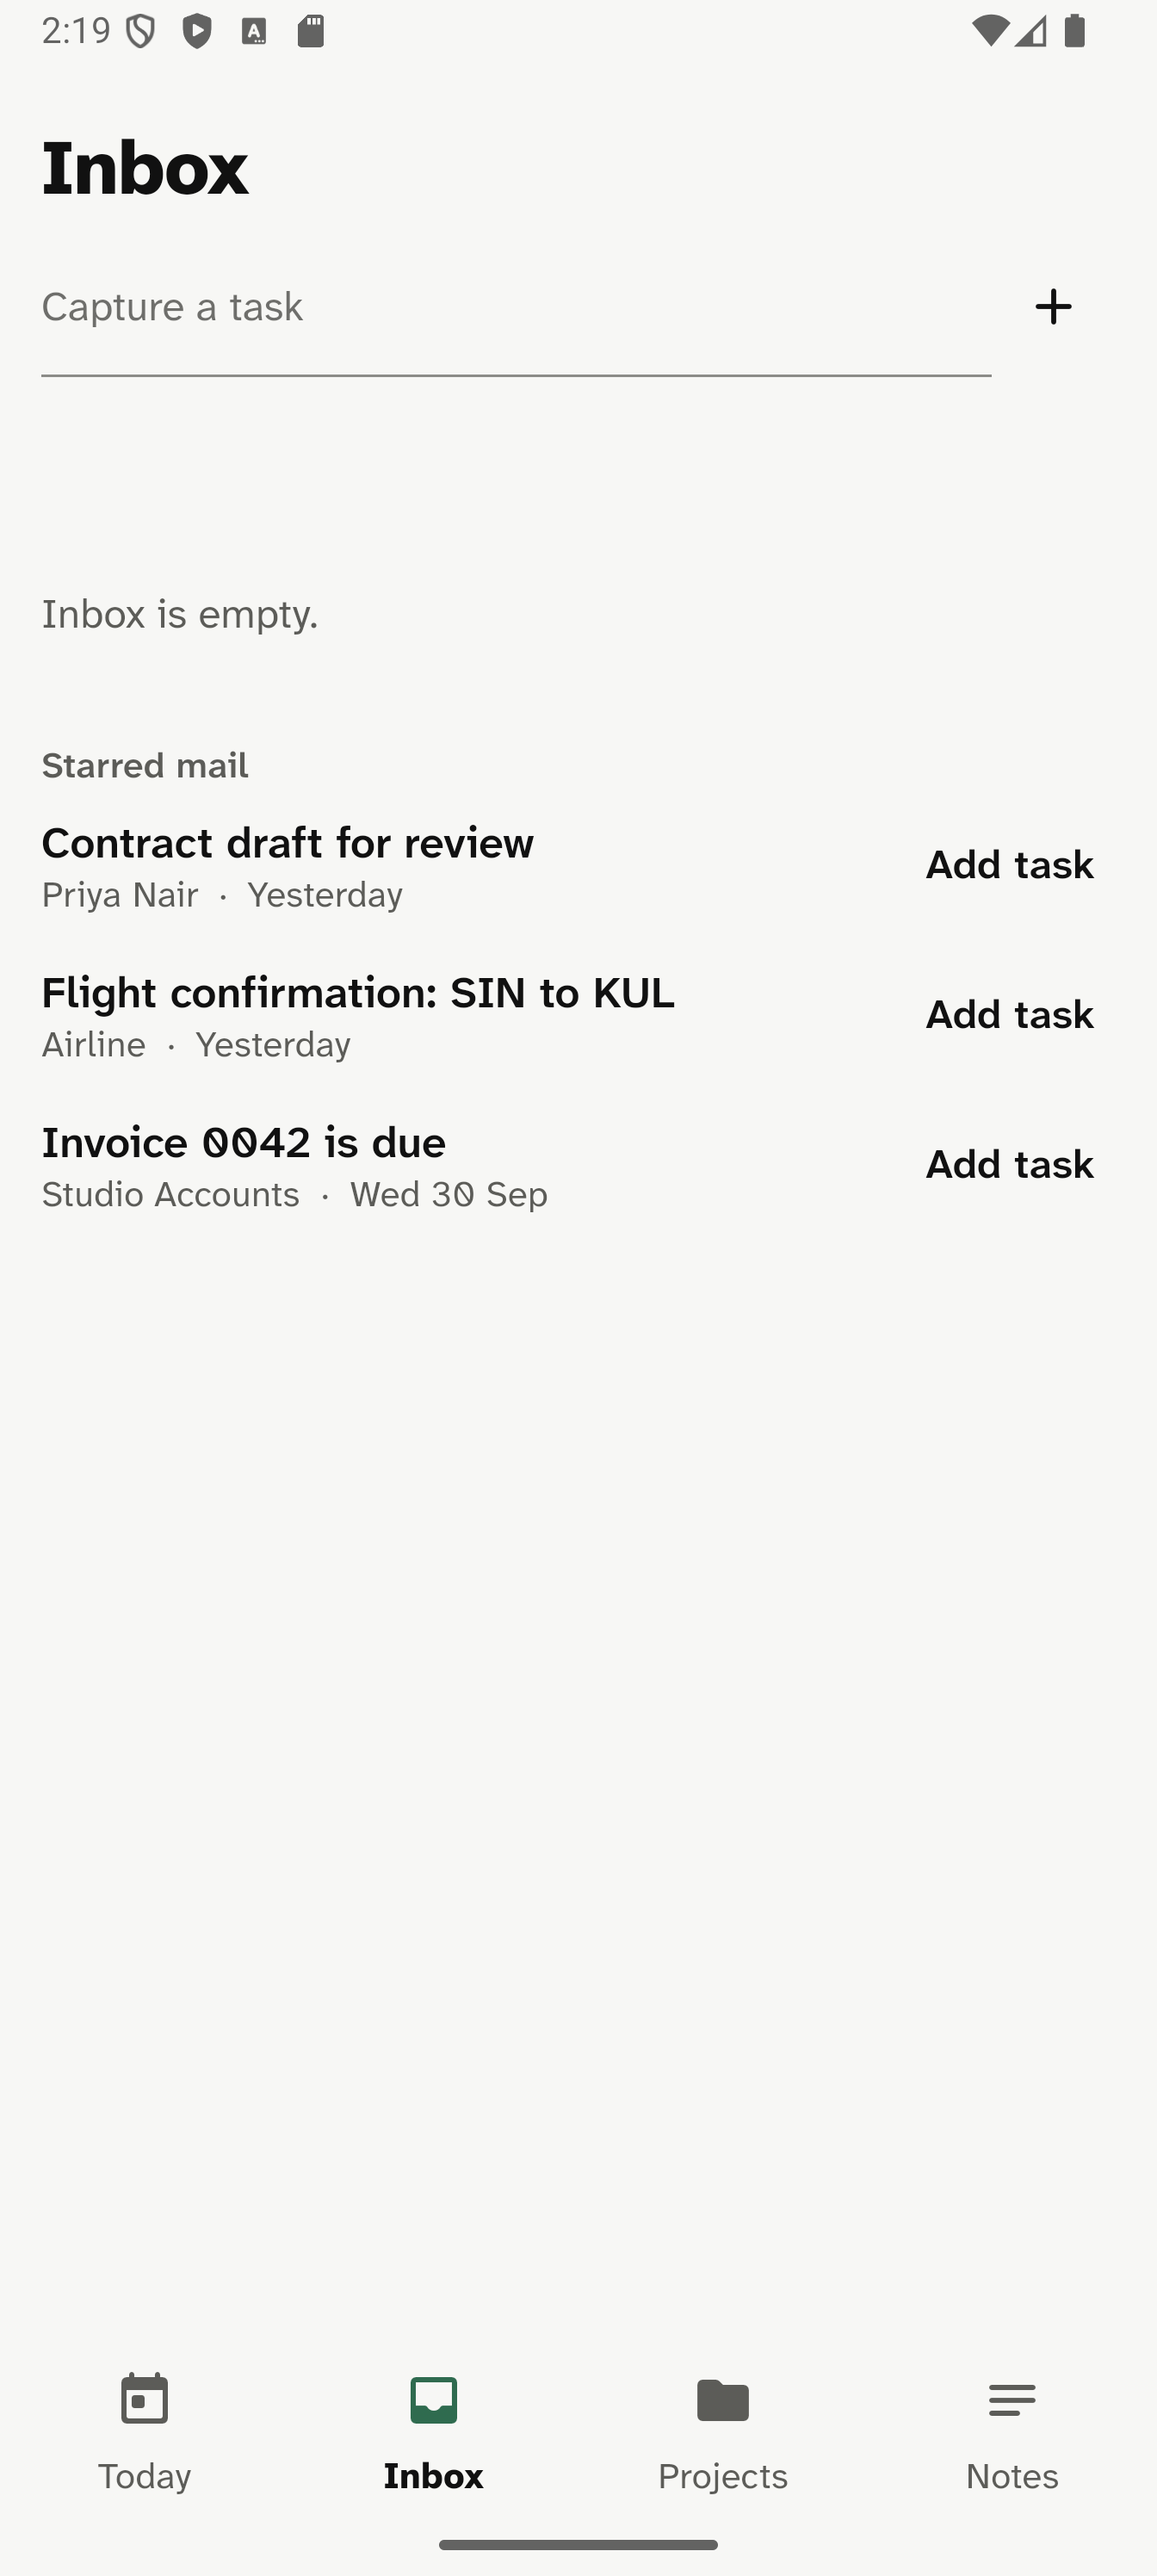
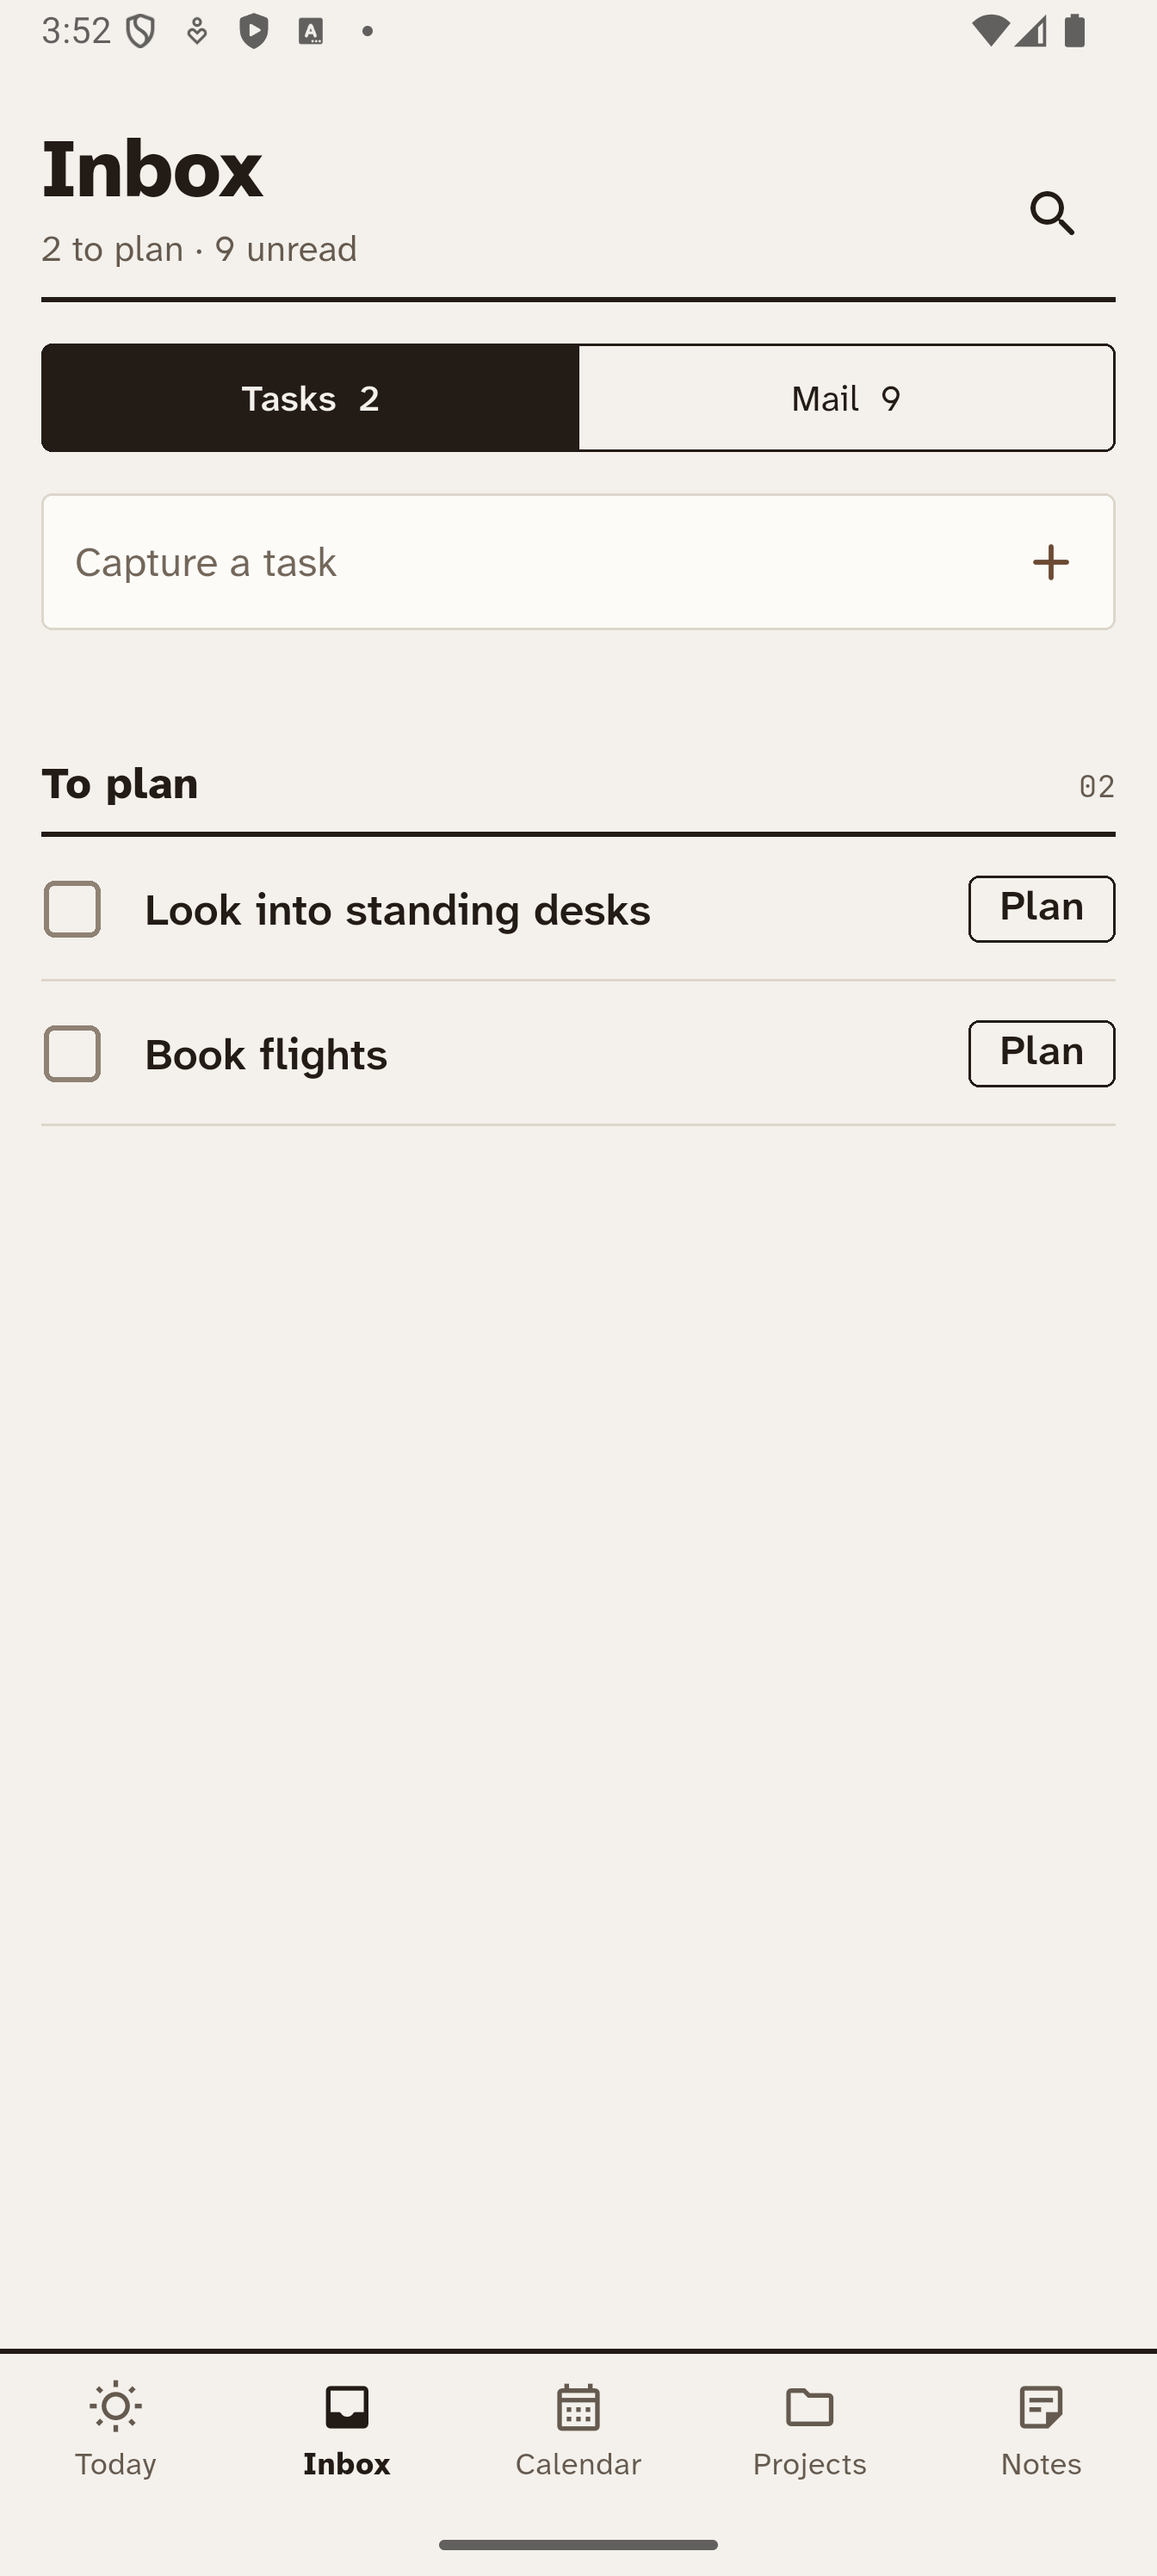
feat: refresh Cairn screenshots, add Mail and Calendar

diff --git a/src/content/work/cairn.md b/src/content/work/cairn.md
@@ -13,10 +13,16 @@ mark: "cards"
 shots:
   - src: "../../assets/work/cairn/today.png"
     label: "Today"
-    alt: "Cairn Today screen: schedule from the calendar and starred mail"
+    alt: "Cairn Today screen: overdue banner, all-day events and a timeline of calendar events and tasks"
   - src: "../../assets/work/cairn/inbox.png"
     label: "Inbox"
-    alt: "Cairn Inbox screen: task capture field and starred mail with an Add task action"
+    alt: "Cairn Inbox screen: task capture field and tasks waiting to be planned"
+  - src: "../../assets/work/cairn/mail.png"
+    label: "Mail"
+    alt: "Cairn Inbox Mail tab: Gmail threads grouped under Primary, with starred messages"
+  - src: "../../assets/work/cairn/calendar.png"
+    label: "Calendar"
+    alt: "Cairn Calendar screen: month grid with calendar filters and the selected day agenda"
 featured: true
 order: 2
 problem: |-
